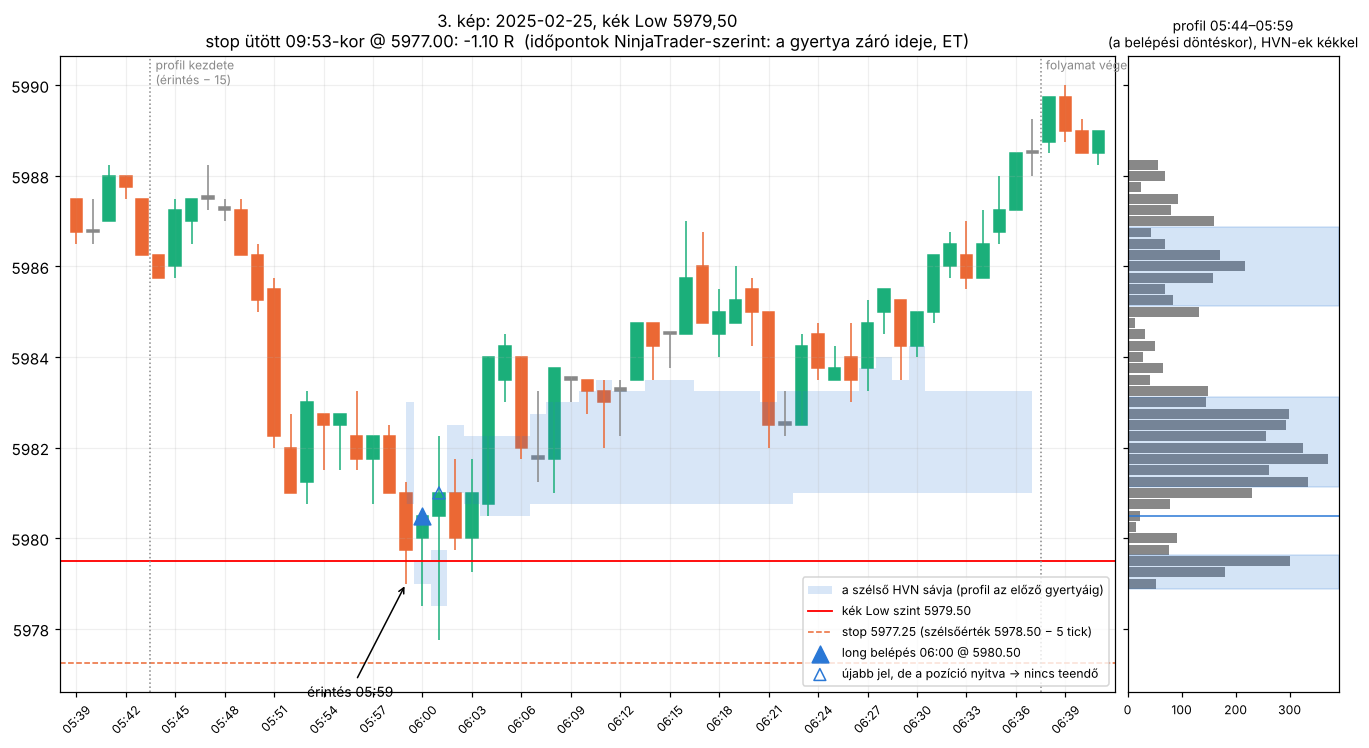
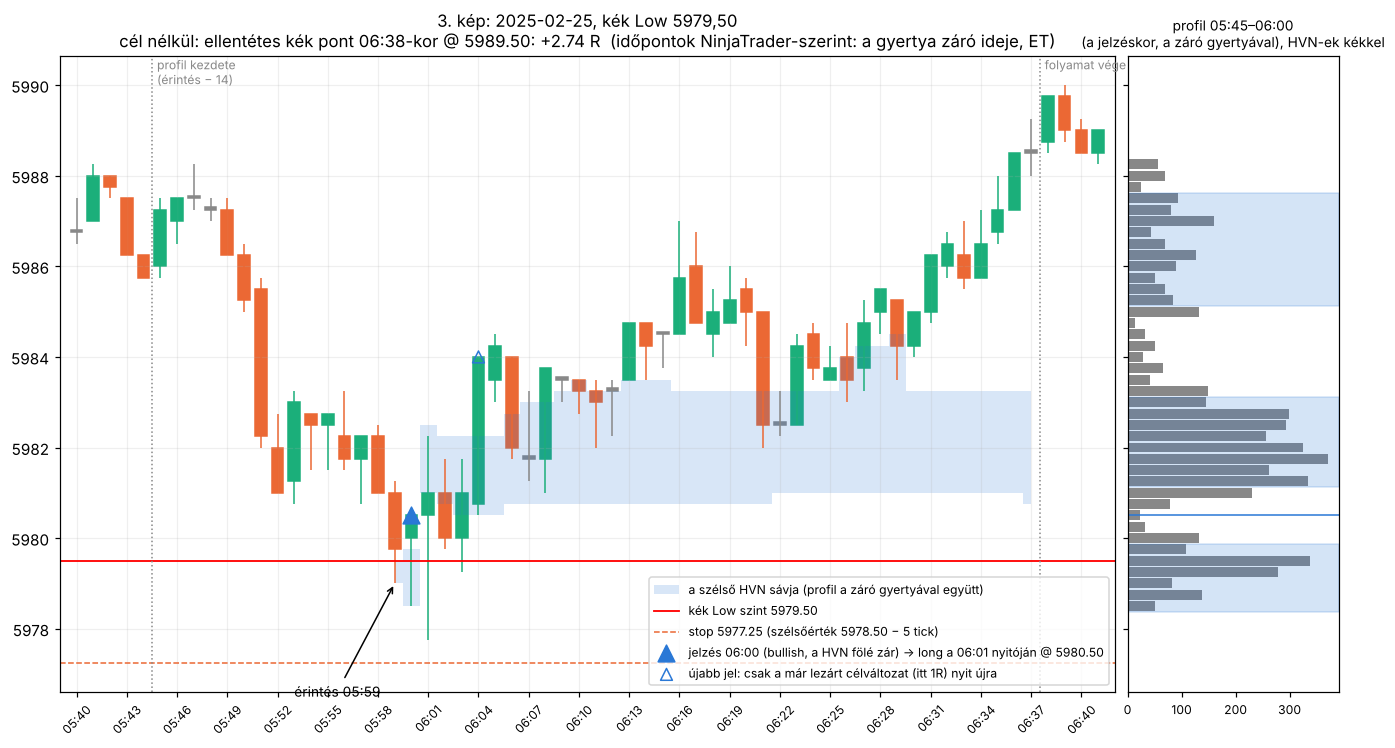
blue_sweep: bar colour filter, profile with the closed bar from touch-14, entry at the next open, exit at opposite blue points
Claude-Session: https://claude.ai/code/session_01MZakK1rrQL7BbwEEL54Twx

diff --git a/research/blue_sweep.py b/research/blue_sweep.py
@@ -6,16 +6,18 @@ Written for a high (short), a low is mirrored.
 Levels: the 0.5 ZigZag highs and lows (TimeOfDay reference). A point is live from its confirmation until a trade above
 the high (below the low); every old point stays live (shifted by the roll spread at a contract change).
 Process: a bar touches a live high (high >= level; several in one bar: the highest). One process at a time, a new
-touch replaces it. The local profile starts at the 15th bar before the touch (not before the session start) and
-grows bar by bar (traded prices of the front contract, Prominence HVNs with Sigma Multiplier 0.41). Entry: a closed
-bar below the low edge of the highest HVN of the profile up to the previous bar -> short at its close. Then the
-signal pauses until a closed bar makes a high above the profile high at the last entry; at the next close below the
-highest HVN: nothing while the position of this process is open, a new short when it was closed (the profile always covers the
-start .. the current bar, only the signal pauses).
-Stop: the highest high since the profile start + BUFFER ticks (5, and 10 / 15 / 20 to measure the stops), fixed.
-Targets, each a separate run: 1R, 2R, 3R, the nearest live opposite blue point below the entry (none: no target),
-none. Exit at the 16:00 ET close at the latest. Costs: 1 tick slippage at the stop, 0.08 point commission. Exits from
-the 1 minute bars: a bar reaching the stop and the target counts as the stop.
+touch replaces it. The local profile starts at the 14th bar before the touch (as the NinjaTrader VolumeProfileTool
+drawn from the 15th, whose first bar is not counted; not before the session start) and grows bar by bar, the closed
+bar included (traded prices of the front contract, Prominence HVNs with Sigma Multiplier 0.41). Signal: a closed
+bearish bar (close < open) below the low edge of the highest HVN of the profile up to and including this bar -> short
+at the open of the next bar. Then the signal pauses until a closed bar makes a high above the profile high at the last
+signal; at the next signal: nothing while the position of this process is open, a new short when it was closed (the
+profile always covers the start .. the current bar, only the signal pauses).
+Stop: the highest high since the profile start up to the signal bar + BUFFER ticks (5, and 10 / 15 / 20 to measure
+the stops), fixed. Targets, each a separate run: 1R, 2R, 3R, none. Every open position is closed at an opposite blue
+point (a low under a short) at its price once the price trades 1 tick through it (a point seen live since the entry
+keeps its resting order even after an exact touch), and at the 16:00 ET close at the latest. Costs: 1 tick slippage at
+the stop, 0.08 point commission. Exits from the 1 minute bars: a bar reaching the stop and a target counts as the stop.
 The process ends when the price moves 10 x the 20 session average ATR1 of the part of day (20:00-09:30 and
 09:30-16:00 separately) away from the level up or down, at another touch, or at 16:00; an open position stays until
 its own exit, so positions of several processes can be open together. Touches and entries 20:00-16:00 ET only.
@@ -39,8 +41,8 @@ import zigzag as zz
 
 TICK = 0.25
 BUFFERS = (5, 10, 15, 20)
-TARGETS = ("1R", "2R", "3R", "opposite", "none")
-PRE_BARS = 15
+TARGETS = ("1R", "2R", "3R", "none")
+PRE_BARS = 14
 AWAY = 10.0
 ATR_SESSIONS = 20
 COMMISSION = 0.08
@@ -91,6 +93,8 @@ def main(results: str, data: str, out: str, first_session: str = "2024-01-01", l
     minutes = sw.MinuteProfiles(data)
     configs = [(bf, tg) for bf in BUFFERS for tg in TARGETS]
     positions: dict = {}                 # (configuration, process id) -> open position
+    pending: list[dict] = []             # signals of the previous bar, entered at this open
+    open_ = b.open.to_numpy(float)
     trades = []
     live: list[dict] = []
     proc = None
@@ -127,9 +131,36 @@ def main(results: str, data: str, out: str, first_session: str = "2024-01-01", l
         if not trading:
             proc = None
 
+        # entries at the open of the bar after a signal
+        for sig in pending:
+            for cfg in configs:
+                c = (cfg, sig["process"])
+                if c in positions:          # this process still holds a position in this configuration
+                    continue
+                side = sig["side"]
+                stop = sig["extreme"] - side * cfg[0] * TICK
+                entry = open_[g]
+                risk = (entry - stop) * side
+                if not risk > 0:
+                    continue
+                target = entry + side * int(cfg[1][0]) * risk if cfg[1] != "none" else None
+                positions[c] = {**sig, "entry_minute": int(minute[g]), "wait_bars": g - sig["touch"], "entry": entry,
+                                "stop": stop, "risk": risk, "target": target, "risk_atr": risk / sig["avg_atr1"],
+                                "entry_from_level_atr": (sig["level"] - entry) * -side / sig["avg_atr1"],
+                                "resting": None, "mfe": 0.0, "mae": 0.0}
+        pending = []
+
         # exits of the open positions on this bar
         for c, pos in list(positions.items()):
             side = pos["side"]
+            # opposite blue points live since the entry: the nearest one keeps a resting exit order
+            opp = [q["price"] for q in live if q["type"] == ("high" if side == 1 else "low")]
+            if pos["resting"] is not None:
+                opp.append(pos["resting"])
+            if opp:
+                pos["resting"] = min(opp) if side == 1 else max(opp)
+            hit_opposite = pos["resting"] is not None and (high[g] >= pos["resting"] + TICK if side == 1
+                                                           else low[g] <= pos["resting"] - TICK)
             fav = (high[g] - pos["entry"]) if side == 1 else (pos["entry"] - low[g])
             adv = (pos["entry"] - low[g]) if side == 1 else (high[g] - pos["entry"])
             pos["mfe"] = max(pos["mfe"], fav)
@@ -138,8 +169,10 @@ def main(results: str, data: str, out: str, first_session: str = "2024-01-01", l
             hit_target = pos["target"] is not None and (high[g] >= pos["target"] if side == 1 else low[g] <= pos["target"])
             if hit_stop:
                 close_position(c, pos, g, pos["stop"], "stop")
-            elif hit_target:
+            elif hit_target and (not hit_opposite or (pos["target"] - pos["resting"]) * side <= 0):
                 close_position(c, pos, g, pos["target"], "target")
+            elif hit_opposite:
+                close_position(c, pos, g, pos["resting"], "opposite")
             elif last_bar:
                 close_position(c, pos, g, close[g], "close")
 
@@ -172,10 +205,12 @@ def main(results: str, data: str, out: str, first_session: str = "2024-01-01", l
             ext = (high[proc["start"]:g + 1].max() if side == -1 else -low[proc["start"]:g + 1].min())
             if not proc["armed"] and hx_now > proc["freeze"]:
                 proc["armed"] = True
+            add_bar(proc, minute[g])           # the closed bar is part of the profile
             nz = np.flatnonzero(proc["acc"])
             hvn = sw.top_hvn((nz + proc["base"]) * TICK, proc["acc"][nz], -1) if len(nz) >= 3 else None
             cx = close[g] * sg
-            signal = proc["armed"] and hvn is not None and cx < hvn[0] and not last_bar
+            colour = close[g] < open_[g] if side == -1 else close[g] > open_[g]
+            signal = proc["armed"] and hvn is not None and cx < hvn[0] and colour and not last_bar
             if TRACE is not None:
                 band = (None, None) if hvn is None else sorted((hvn[0] * sg, hvn[1] * sg))
                 TRACE.append({"process": proc["id"], "side": side, "level": proc["level"],
@@ -185,34 +220,11 @@ def main(results: str, data: str, out: str, first_session: str = "2024-01-01", l
             if signal:
                 proc["armed"], proc["freeze"] = False, ext
                 proc["entries"] += 1
-                extreme = ext * sg
-                for cfg in configs:
-                    c = (cfg, proc["id"])
-                    if c in positions:          # this process still holds a position in this configuration
-                        continue
-                    stop = extreme - side * cfg[0] * TICK
-                    entry = close[g]
-                    risk = (entry - stop) * side
-                    if not risk > 0:
-                        continue
-                    if cfg[1] in ("1R", "2R", "3R"):
-                        target = entry + side * int(cfg[1][0]) * risk
-                    elif cfg[1] == "opposite":
-                        opp = [q["price"] for q in live if q["type"] == ("high" if side == 1 else "low")
-                               and (q["price"] - entry) * side > 0]
-                        target = (min(opp) if side == 1 else max(opp)) if opp else None
-                    else:
-                        target = None
-                    positions[c] = {"process": proc["id"], "n_in_process": proc["entries"], "session": s.date(),
-                                    "year": s.year, "part": parts[g], "side": side, "level": proc["level"],
-                                    "age": proc["age"], "touch_minute": int(minute[proc["touch"]]),
-                                    "entry_minute": int(minute[g]), "wait_bars": g - proc["touch"], "entry": entry,
-                                    "extreme": extreme, "stop": stop, "risk": risk, "target": target,
-                                    "avg_atr1": proc["avg"], "risk_atr": risk / proc["avg"],
-                                    "beyond_atr": (extreme - proc["level"]) * -side / proc["avg"],
-                                    "entry_from_level_atr": (proc["level"] - entry) * -side / proc["avg"],
-                                    "mfe": 0.0, "mae": 0.0}
-            add_bar(proc, minute[g])
+                pending.append({"process": proc["id"], "n_in_process": proc["entries"], "session": s.date(),
+                                "year": s.year, "part": parts[g], "side": side, "level": proc["level"],
+                                "age": proc["age"], "touch_minute": int(minute[proc["touch"]]), "touch": proc["touch"],
+                                "signal_minute": int(minute[g]), "extreme": ext * sg, "avg_atr1": proc["avg"],
+                                "beyond_atr": (ext * sg - proc["level"]) * -side / proc["avg"]})
             away = AWAY * proc["avg"]
             if last_bar or (not np.isnan(away) and (high[g] >= proc["level"] + away or low[g] <= proc["level"] - away)):
                 proc = None
@@ -237,14 +249,15 @@ def add_bar(proc: dict, m: int) -> None:
 def summary(t: pd.DataFrame, n_sessions: dict) -> str:
     lines = ["# Kék ZigZag-kisöprés helyi profillal (nyers szabály)", "",
              "Short a kék High-oknál, long a Low-oknál (a szabály a CLAUDE.md-ben és a szkript fejében). Nettó R ± 95% "
-             "(seanszonként klaszterezve); stop = a profil-kezdet óta mért szélsőérték + puffer tick; zárás legkésőbb "
-             "16:00. nyerés = R > 0.", ""]
+             "(seanszonként klaszterezve); belépés a jelzés utáni gyertya nyitóján; stop = a profil-kezdet óta mért "
+             "szélsőérték + puffer tick; zárás az ellentétes kék ponton (1 tickes átlépéssel) vagy legkésőbb 16:00-kor. "
+             "nyerés = R > 0.", ""]
     if t.empty:
         return "\n".join(lines) + "\nNincs kötés.\n"
     t = t.assign(weight=1.0)
     for part in ("night", "rth"):
         lines += [f"## {'Éjszaka' if part == 'night' else 'RTH'} (a belépés szerint)", "",
-                  "| puffer | cél | év | kötés | / nap | nyerés | stop | átlag R | össz R |", "|---|---|---|---|---|---|---|---|---|"]
+                  "| puffer | cél | év | kötés | / nap | nyerés | stop | ellentétes pont | átlag R | össz R |", "|---|---|---|---|---|---|---|---|---|---|"]
         for bf in BUFFERS:
             for tg in TARGETS:
                 for y in sorted(t.year.unique()):
@@ -253,11 +266,11 @@ def summary(t: pd.DataFrame, n_sessions: dict) -> str:
                         continue
                     m, band = pt.weighted(g, "r")
                     lines.append(f"| {bf} | {tg} | {y} | {len(g)} | {len(g) / n_sessions.get(y, 1):.2f} | "
-                                 f"{(g.r > 0).mean():.0%} | {(g.reason == 'stop').mean():.0%} | {m:+.3f} ±{band:.3f} | "
+                                 f"{(g.r > 0).mean():.0%} | {(g.reason == 'stop').mean():.0%} | {(g.reason == 'opposite').mean():.0%} | {m:+.3f} ±{band:.3f} | "
                                  f"{g.r.sum():+.0f} |")
         lines.append("")
     base = t[(t.buffer == 5) & (t.target_type == "none")]
-    lines += ["## Bontás (puffer 5 tick, cél nélkül, zárás 16:00-kor)", "", "Szint kora (seansz):", "",
+    lines += ["## Bontás (puffer 5 tick, cél nélkül)", "", "Szint kora (seansz):", "",
               "| rész | kor | év | kötés | átlag R |", "|---|---|---|---|---|"]
     bins = [-1, 0, 1, 5, 10, 20, 60, 10_000]
     labels = ["0", "1", "2-5", "6-10", "11-20", "21-60", ">60"]
